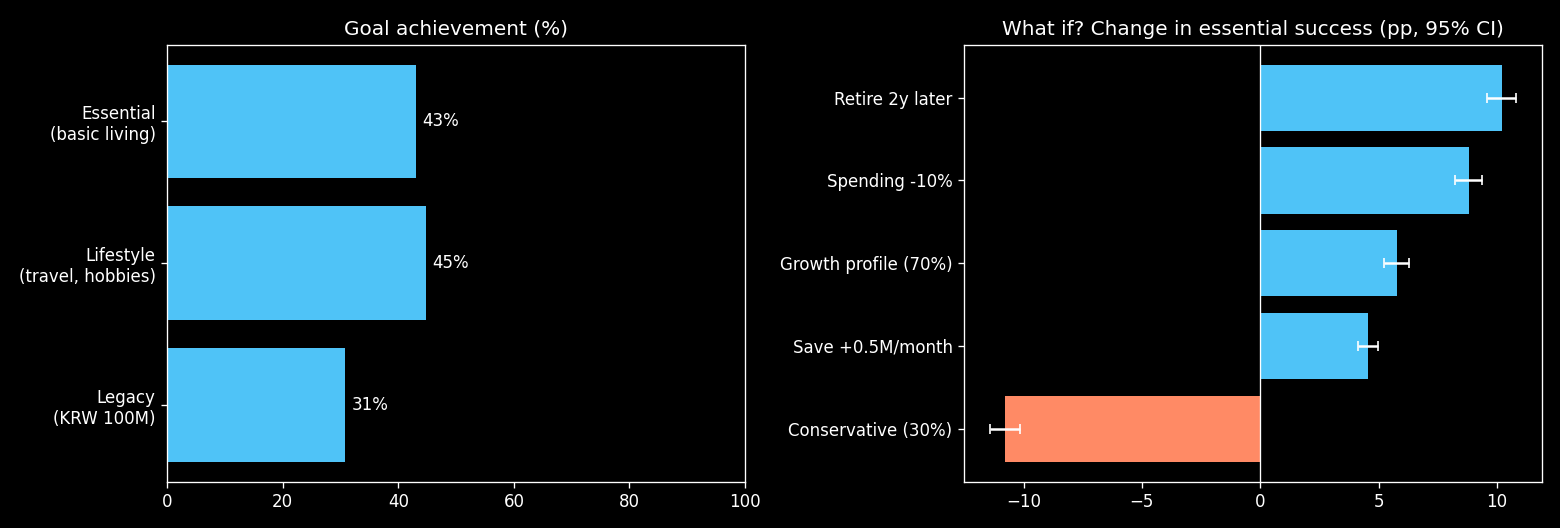
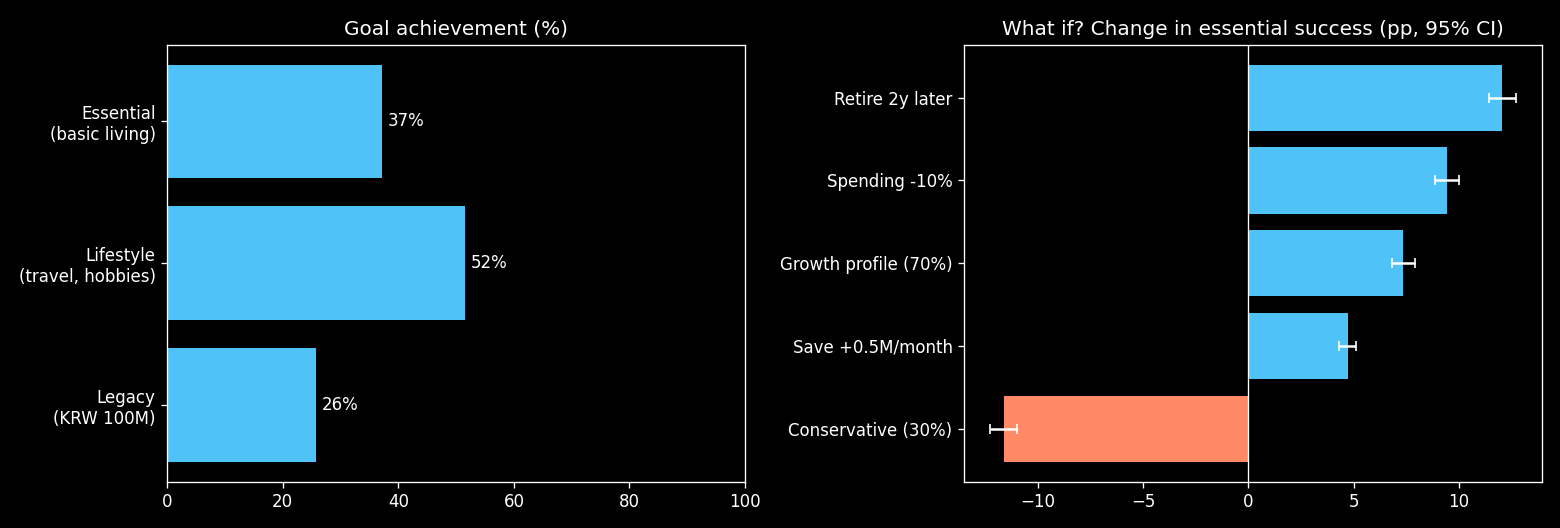
Add files via upload

diff --git a/retire_sim/engine_tax.py b/retire_sim/engine_tax.py
@@ -75,6 +75,40 @@ def run(hh: Household, cfg: SimConfig, e: EconomyV2 = None, tc: TaxConfig = None
         pv_prem = (pay * v).sum(1).mean()
         ci_prem = (1 + ad.care_loading) * pv_ben / max(pv_prem, 1e-9)
     stock_ret = np.full((n, T), np.nan); port_ret = np.full((n, T), np.nan)
+
+    # ── v16 기본생활비 보호선: 생존확률 가중 현가 (계리적) ──
+    # 상태 0 = 부부 모두 생존(1인 가구는 본인 생존), 1 = 본인만, 2 = 배우자만.
+    # F[t, 상태] = Σ_s v^s Σ_상태' P(상태'|상태, t→t+s) · max(기본생활비×비율 − 보장소득_실질, 0)   (오늘 가치)
+    floor_tab = None
+    if hh.floor_method == "actuarial":
+        v_r = 1 / (1 + hh.floor_real_rate); pibar = e.pi_theta
+        qf = [np.minimum(qx_table[m.sex] * hh.floor_mort_mult, 1.0) for m in hh.members]
+        def inc_real(i, yr):                               # 구성원 i의 yr년차 보장소득(실질): 국민연금(물가연동) + 사적연금(명목 정액)
+            m = hh.members[i]; age = m.age + yr; x = 0.0
+            if age >= m.nps_start_age: x += pension.nps_annual_amount(m, cfg.nps)
+            if m.private_pension_start <= age < m.private_pension_start + m.private_pension_years:
+                x += m.private_pension_annual / (1 + pibar) ** yr
+            return x
+        rent_real = house.rent_annual
+        H = T + 1; floor_tab = np.zeros((H, 3))
+        for t0 in range(H):
+            horizon = H - t0
+            surv = []
+            for i, m in enumerate(hh.members):
+                x0 = min(m.age + t0, len(qf[i]) - 1)
+                q = qf[i][x0:x0 + horizon]; q = np.concatenate([q, np.ones(max(0, horizon - len(q)))])
+                surv.append(np.concatenate([[1.0], np.cumprod(1 - q)[:-1]]))   # s년 뒤 생존확률
+            vs = v_r ** np.arange(horizon)
+            yrs = np.arange(t0, t0 + horizon)
+            gap = lambda members, ratio: np.array([max(ess_base * ratio - sum(inc_real(i, y) for i in members) - rent_real, 0.0) for y in yrs])
+            g0 = gap([0], 1.0 if k == 1 else hh.survivor_spending_ratio)
+            if k == 1:
+                floor_tab[t0, :] = np.sum(vs * surv[0] * g0); continue
+            g1 = gap([1], hh.survivor_spending_ratio); gb = gap([0, 1], 1.0)
+            p0, p1 = surv[0], surv[1]
+            floor_tab[t0, 0] = np.sum(vs * (p0 * p1 * gb + p0 * (1 - p1) * g0 + (1 - p0) * p1 * g1))
+            floor_tab[t0, 1] = np.sum(vs * p0 * g0)
+            floor_tab[t0, 2] = np.sum(vs * p1 * g1)
     short_real = np.zeros(n)                                   # 생존 중 부족했던 기본생활비 누계(실질)
 
     def sell_from_taxable(amount):
@@ -167,9 +201,15 @@ def run(hh: Household, cfg: SimConfig, e: EconomyV2 = None, tc: TaxConfig = None
         income_all = nps.sum(0) + priv.sum(0) + rent + bz.sum(0) + ann_inc + ci_ben
         if retired:
             # 목표 우선순위: 기본생활(Essential) 보호선을 먼저 지키고, 남는 만큼만 여행·취미(Lifestyle) 지출
-            yrs_left = max(5, hh.planning_age - (youngest + t))
-            ann = (1 - 1.02 ** -yrs_left) / 0.02            # 실질 2%로 할인한 연금현가계수
-            floor = np.maximum(ess - income_all, 0) * ann
+            if floor_tab is not None:
+                st_idx = np.where(a[0] & (a[1] if k > 1 else True), 0, np.where(a[0], 1, 2)) if k > 1 else np.zeros(n, int)
+                floor = floor_tab[t, st_idx] * cpi[:, t] * live
+                if ad.annuity_premium > 0 and t >= ann_t:           # 종신연금 소득은 보장소득으로 보호선에서 차감
+                    floor = np.maximum(floor - ann_inc * annuity_factor(t) / (1 + e.pi_theta), 0)
+            else:
+                yrs_left = max(5, hh.planning_age - (youngest + t))
+                ann = (1 - 1.02 ** -yrs_left) / 0.02            # (v12) 실질 2%로 할인한 확정 연금현가계수
+                floor = np.maximum(ess - income_all, 0) * ann
             life_paid = np.clip(Wt + Wi + Wp + S + D - floor, 0, life_want)
             spend = ess + life_paid
             if hh.lifestyle > 0:
@@ -283,7 +323,7 @@ def run(hh: Household, cfg: SimConfig, e: EconomyV2 = None, tc: TaxConfig = None
 
     return {"depleted_at": dep_at, "youngest_age": youngest, "T": T, "antithetic": eco.get("antithetic", False), "tax_y": tax_y, "hi_y": hi_y, "prop_y": prop_y,
             "estate_real": estate_real, "life_ratio": life_ratio, "stock_ret": stock_ret, "port_ret": port_ret, "short_real": short_real,
-            "annuity_pay": float(np.median(ann_pay[ann_pay > 0])) if (ann_pay > 0).any() else 0.0, "care_premium": ci_prem, "legacy_target": hh.legacy_target, "estate_tax_real": etax_real, "transfer_real": transfer_real,
+            "floor_tab": floor_tab, "annuity_pay": float(np.median(ann_pay[ann_pay > 0])) if (ann_pay > 0).any() else 0.0, "care_premium": ci_prem, "legacy_target": hh.legacy_target, "estate_tax_real": etax_real, "transfer_real": transfer_real,
             "W_nominal": W_hist, "W_real": W_hist / cpi, "hh_alive": hh_alive,
             "last_alive_t": hh_alive.sum(1) - 1, "cpi": cpi}
 

diff --git a/streamlit_app.py b/streamlit_app.py
@@ -71,7 +71,8 @@ def build(p: dict, v: dict):
                    lifestyle=p["lifestyle"] * m, legacy_target=p["legacy"] * 10000,
                    retire_age=retire if p["age"] < retire else None,
                    annual_saving=(p["saving"] + v.get("saving_delta", 0)) * 12,
-                   survivor_spending_ratio=p["survivor"] / 100)
+                   survivor_spending_ratio=p["survivor"] / 100,
+                   floor_method="fixed95" if p.get("floor") == "보수적" else "actuarial")
     care = CareMarkov() if p["enhanced"] else CareShock()
     if v.get("care_mult"):
         care = CareMarkov(incidence=tuple((a, x * v["care_mult"]) for a, x in CareMarkov().incidence)) \
@@ -289,13 +290,15 @@ if ss.step < len(STEPS) and not ss.get("done"):
                 overseas = c1.slider("주식 중 해외주식 (%)", 0, 100, p["overseas"], step=10)
                 own_equal = c2.checkbox("금융자산 부부 균등 명의", value=p["own_equal"])
                 survivor = st.slider("한 명만 남았을 때 생활비 (%)", 40, 100, p["survivor"], step=5)
+                floor = st.radio("기본생활비 보호 방식", ["계리적", "보수적"], index=0 if p.get("floor", "계리적") == "계리적" else 1, horizontal=True,
+                                 captions=["생존확률로 가중한 앞으로의 부족분 (연금 개시 반영)", "95세까지 지금 부족분이 계속된다고 가정"])
                 enhanced = st.toggle("강화 모델 (금리-물가 연결, 운용보수, 간병 다중상태 등)", value=p["enhanced"])
                 paths = st.select_slider("시나리오 수", [2000, 5000, 10000], value=p["paths"])
             back, nxt = nav(i, "s7")
             if nxt or back:
                 p.update(h_official=h_off, h_market=h_mkt, h_n=int(h_n), h_joint=bool(h_joint), h_years=int(h_years),
                          h_hi=float(h_hi), rent=int(rent), biz=int(biz), biz_until=int(biz_until), biz_work=bool(biz_work),
-                         overseas=int(overseas), own_equal=bool(own_equal), survivor=int(survivor),
+                         overseas=int(overseas), own_equal=bool(own_equal), survivor=int(survivor), floor=floor,
                          enhanced=bool(enhanced), paths=int(paths)); go(1 if nxt else -1)
         else:
             need, pension, gap = income_gap(p)
@@ -519,7 +522,7 @@ with tab5:
     st.markdown("""
 **계산 방식**
 - 금리·물가·주가가 서로 연결되어 움직이는 1만 가지 미래와, 통계청 생명표 기반 부부 각자의 수명·간병을 계산합니다.
-- 목표는 **기본생활 → 여행·취미 → 남길 자산** 순으로 지킵니다. 매년 남은 금융자산이 "95세까지 기본생활비 부족분의 현재가치(실질 2% 할인)"보다 많을 때만 여행·취미 예산을 씁니다.
+- 목표는 **기본생활 → 여행·취미 → 남길 자산** 순으로 지킵니다. 매년 남은 금융자산이 "앞으로 기본생활비 부족분의 기대 현재가치"(생존확률 가중, 연금 개시 반영, 실질 2% 할인, 사망률 80%로 보수적 계산)보다 많을 때만 여행·취미 예산을 씁니다.
 - 국민연금, 사적연금 분리과세, 금융소득종합과세, 건강보험료, 재산세·종부세, 상속·증여세를 반영합니다.
 
 **알아두실 점**

diff --git a/retire_sim/config.py b/retire_sim/config.py
@@ -28,7 +28,10 @@ class Household:
     legacy_target: float = 0.0            # 남기고 싶은 금액(만원, 현재가치)
     retire_age: Optional[int] = None      # 본인(첫 구성원) 은퇴 나이. None이면 이미 은퇴
     annual_saving: float = 0.0            # 은퇴 전 연 저축액(만원, 현재가치)
-    planning_age: int = 95                # 기본생활비 보호선 계산용 계획 나이
+    planning_age: int = 95                # (v12 방식) 기본생활비 보호선 계산용 계획 나이
+    floor_method: str = "actuarial"       # "actuarial"(v16): 생존확률 가중 현가 / "fixed95"(v12): 95세까지 확정
+    floor_mort_mult: float = 0.8          # 보호선 산출용 사망률 배수 (<1이면 오래 사는 쪽으로 보수적)
+    floor_real_rate: float = 0.02         # 보호선 할인율(실질)
 
 
 @dataclass

diff --git a/README.en.md b/README.en.md
@@ -25,7 +25,7 @@ Most Korean retirement calculators fix returns and lifespan and ignore taxes and
 
 ## What makes it different
 
-1. **Goal-based structure** — essential (protected), lifestyle (flexible) and legacy goals, with a guardrail that cuts flexible spending first in bad scenarios
+1. **Goal-based structure** — essential (protected), lifestyle (flexible) and legacy goals, with a guardrail that cuts flexible spending first in bad scenarios (floor = survival-weighted present value of expected essential shortfalls)
 2. **Korean institutions** — National Pension early/deferred claiming, KRW 15M private-pension threshold, comprehensive financial-income taxation, health premiums (regional/workplace, dependents), property taxes, inheritance and gift taxes
 3. **Actuarial modeling** — joint-life survival from the Statistics Korea 2024 complete life table, multi-state long-term-care Markov model (healthy ⇄ care → dead) calibrated to preserve life-table mortality
 4. **Stochastic economy** — OU real rate and inflation estimated from Bank of Korea (ECOS) data, with a Fisher link, two-factor closed-form bond pricing, exact joint distribution of integrated rates, crash jumps, parameter uncertainty, fees
@@ -34,26 +34,26 @@ Most Korean retirement calculators fix returns and lifespan and ignore taxes and
 ## Example (couple aged 52 and 50, retiring at 60, KRW 500M, saving KRW 1.5M/month · placeholder assumptions)
 
 - Essential KRW 3M/month + lifestyle KRW 12M/year − pensions KRW 1.6M/month → **income gap KRW 2.4M/month**
-- Goal success: essential **43%**, lifestyle funding **45%**, KRW 100M legacy **31%**
+- Goal success: essential **37%**, lifestyle funding **52%**, KRW 100M legacy **26%**
 
 | What if | Change in essential success (95% CI) |
 |---|---|
-| Retire 2 years later | **+10.2pp** (±0.6) |
-| Spend 10% less | +8.8pp (±0.6) |
-| Growth profile | +5.8pp (±0.5) |
-| Save KRW 0.5M more per month | +4.6pp (±0.4) |
-| Conservative profile | −10.8pp (±0.6) |
+| Retire 2 years later | **+12.1pp** (±0.6) |
+| Spend 10% less | +9.4pp (±0.6) |
+| Growth profile | +7.4pp (±0.5) |
+| Save KRW 0.5M more per month | +4.7pp (±0.4) |
+| Conservative profile | −11.6pp (±0.6) |
 
 | Crisis | Change in essential success |
 |---|---|
-| Equities −40% in the first year of retirement | −15.9pp |
-| Equities −40% ten years into retirement | −11.1pp |
-| Long-term care risk doubled | −8.4pp |
-| Longer life (mortality −20%) | −6.7pp |
+| Equities −40% in the first year of retirement | −15.0pp |
+| Equities −40% ten years into retirement | −9.8pp |
+| Long-term care risk doubled | −7.6pp |
 | Three years of 6% inflation | −5.5pp |
+| Longer life (mortality −20%) | −4.9pp |
 
 - For this household **retirement timing is the strongest lever**, and the same crash hurts most right after retirement (sequence-of-returns risk).
-- Splitting spending into essential + flexible lowers the depletion probability versus fixed spending of the same total (65.6% → 54.1%).
+- Splitting spending into essential + flexible lowers the depletion probability versus fixed spending of the same total (65.6% → 59.4%).
 
 ![goals](docs/images/goals_whatif.png)
 ![tax strategies](docs/images/tax_strategies.png)
@@ -109,6 +109,7 @@ python scripts/validate_v11.py      # validation
 | Web app (Streamlit) | Done |
 | v12 goal-based rebuild (three goals, income gap, accumulation phase, model portfolios, step-by-step input) | Done |
 | Statistics Korea 2024 complete life table (v13) | Done |
+| Actuarial essential floor v16: survival-weighted present value reflecting pension start and couple survival states | Done |
 | Add-on products v15: stocks by ticker (beta, correlation, rate sensitivity), deposits, life annuities, long-term-care insurance, pension contributions | Done |
 | ECOS rate/inflation estimation (v14) | Done |
 | Cohort mortality improvement, real data for equity returns and care incidence | Planned |

diff --git a/CHANGELOG.md b/CHANGELOG.md
@@ -1,5 +1,19 @@
 # 변경 내역 (Changelog)
 
+## v16 — 기본생활비 보호선을 계리적으로 (2026-09-29)
+
+| 무엇을 | 어떻게 | 전과 무엇이 달라졌나 |
+|---|---|---|
+| 보호선 | "올해 부족분 × 95세까지 확정 연금현가(실질 2%)" → "앞으로 해마다의 부족분 × 그해까지 살아있을 확률 × 할인" (생존확률 가중 현가) | 95세까지 무조건 산다는 가정과, 올해 부족분이 평생 이어진다는 가정을 모두 없앰 |
+| 부족분 계산 | 국민연금 개시 시점, 사적연금 기간(명목 정액 → 실질 감소), 임대수입을 해마다 반영 | 연금 개시 전(60~64세)의 큰 부족분이 평생 이어진다고 보던 과대평가 제거 |
+| 부부 상태 | 부부 모두 생존 / 본인만 / 배우자만 세 상태별로 보호선을 따로 계산, 매년 그 경로의 생존 상태에 맞는 값 사용 | 한 명이 사망하면 생활비 비율·연금이 바뀌는 것을 반영 |
+| 보수성 | 사망률 80%로 계산(오래 사는 쪽), 실질 2% 할인. 종신연금 가입 시 그 소득도 보호선에서 차감 | 평균 수명 기준보다 보수적 |
+| 결과 (52세 부부) | 은퇴 첫해 보호선: 약 9억 → 5.3억 | 기본생활 유지 43.1% → 37.2%, 여행·취미 충족 44.8% → 51.5%, 90% 이상 유지 14.6% → 26.6%, 유산 30.9% → 25.8% |
+| 결과 (65세 부부, 10억) | 보호선 3.1억 → 3.3억 | 거의 변화 없음 (연금이 이미 개시된 가구) |
+
+- 해석: 이전 방식은 연금 개시 전 부족분을 평생 이어지는 것으로 봐서 **여행·취미를 과도하게 줄이고 있었음**. 계리적 보호선은 "기본생활을 지키면서 쓸 수 있는 만큼"을 더 정확히 계산해, 여행·취미를 더 쓰는 대신 기본생활 유지 확률이 낮아지는 실제 맞교환을 드러냄.
+- 웹 앱 '추가 정보 → 세금·명의·모델'에서 **보수적(95세 확정)** 방식을 고를 수 있음. 코드: `Household(floor_method="fixed95")`
+
 ## v15 — 상품 추가해 보기 (2026-09-29)
 
 기존 계획에 주식·예금·연금·보험을 더했을 때 목표 달성과 위험이 어떻게 바뀌는지 같은 시나리오 위에서 비교한다.

diff --git a/docs/MODEL.en.md b/docs/MODEL.en.md
@@ -209,3 +209,8 @@ Standard errors of the long-run means are used as per-path parameter uncertainty
 ## 17. v15 add-on products
 
 Individual stocks (single-index model with a rate-change term; β, idiosyncratic volatility and rate sensitivity estimated from 10 years of monthly prices), deposits, single-premium life annuities (priced with 0.8× life-table mortality, 3% discount, 5% loading; single or joint-last), long-term-care insurance (premium by the equivalence principle on the engine's own care paths, 30% loading) and pension-account contributions (13.2% tax credit). New metric: average real shortfall when depleted. Add-on noise uses a separate random stream so paired comparisons remain valid.
+
+
+## 18. v16 actuarial floor
+
+The essential floor becomes the survival-weighted present value of future essential shortfalls, computed separately for three household states (both alive, only you, only spouse), using life-table survival × 0.8 mortality, a 2% real discount rate, and projected guaranteed income (National Pension from its start age, fixed-nominal private pensions deflated by expected inflation, rent). Lifestyle spending is paid only above this floor. Previously (v12–v15) the current-year shortfall was treated as lasting to age 95 with certainty.

diff --git a/docs/MODEL.md b/docs/MODEL.md
@@ -226,3 +226,15 @@ ECOS 월별 2000-01~2026-08: 물가 $\pi_t$ = CPI 전년동월비, 실질금리 
 - **간병보험:** 연 보험료 $=(1+\ell)\,B\,E[\sum_t v^t\mathbb 1_{C,t}]\,/\,E[\sum_{t<T_p} v^t\mathbb 1_{H,t}]$ — 엔진의 간병 경로 그대로 사용.
 - **연금저축:** 납입액 → 연금계좌(세액공제 원금은 인출 시 과세), 공제 $\min(c,900)\times13.2\%$.
 - **부족액:** $\sum_t \text{short}_t/CPI_t$ (생존 연도).
+
+
+## 18. v16 계리적 보호선
+
+은퇴 후 $t$년, 가구 생존 상태 $\sigma\in\{\text{부부},\text{본인},\text{배우자}\}$일 때 (오늘 가치)
+
+$$F_t(\sigma)=\sum_{s\ge0} v^s\sum_{\sigma'}P(\sigma'_{t+s}\mid\sigma_t)\,\max\!\big(E\,\rho(\sigma')-I_{t+s}(\sigma'),\,0\big),\quad v=\tfrac1{1.02}$$
+
+- $P$: 각자의 생존확률 $_sp_x$(생명표 × 0.8)로 계산한 상태 확률, $\rho$: 1인 생존 시 생활비 비율
+- $I$: 국민연금(실질 일정, 개시 나이 이후) + 사적연금(명목 정액을 기대물가로 실질화) + 임대수입
+- 선택지출 지급액 $=\min\big(L_t,\ \max(W_t-F_t(\sigma_t)\,CPI_t,\ 0)\big)$, 종신연금 가입 시 그 현가만큼 $F$에서 차감
+- 이전(v12~v15): $F_t=\max(E_t-I_t,0)\cdot\ddot a_{\overline{n}|2\%}$, $n=\max(5,95-x_t)$
